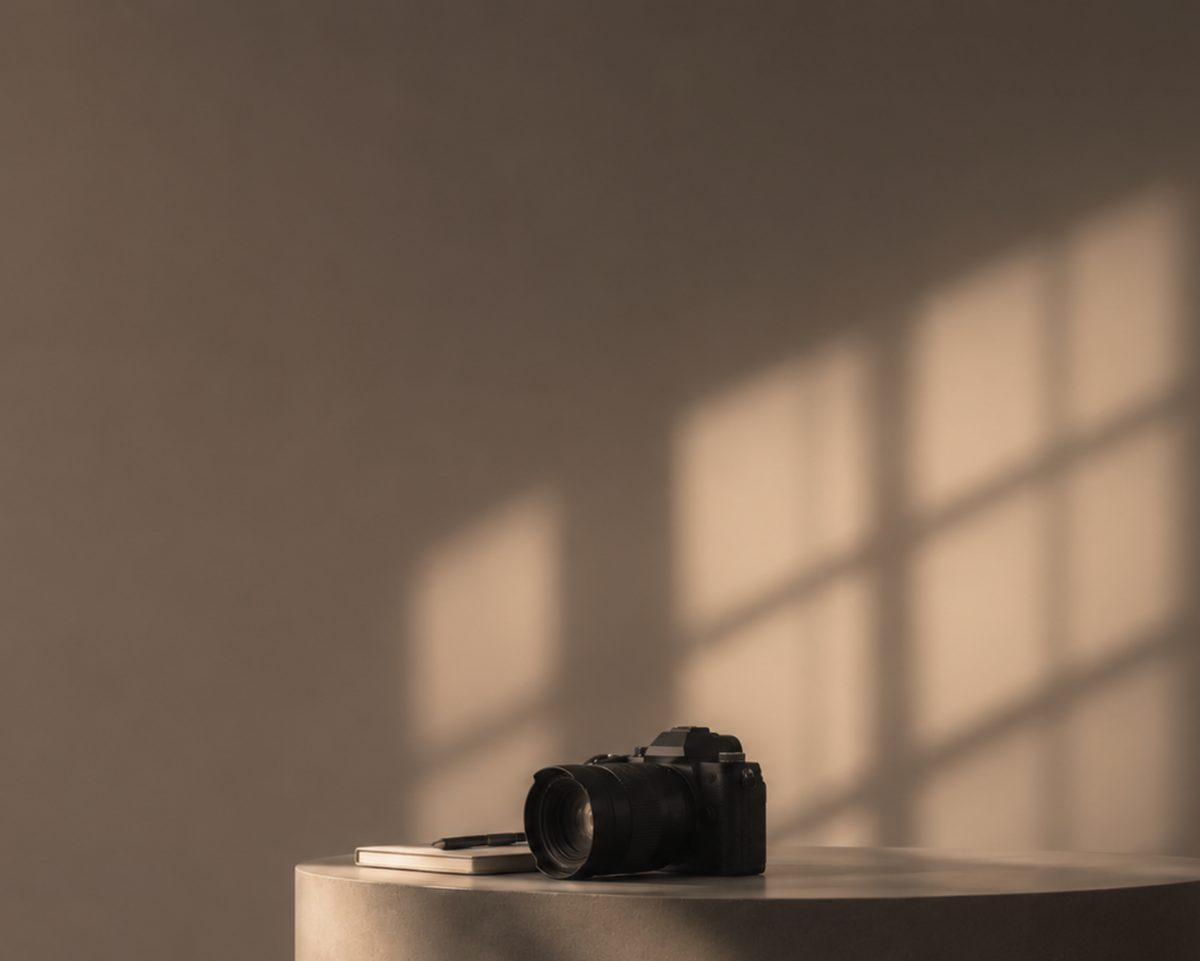
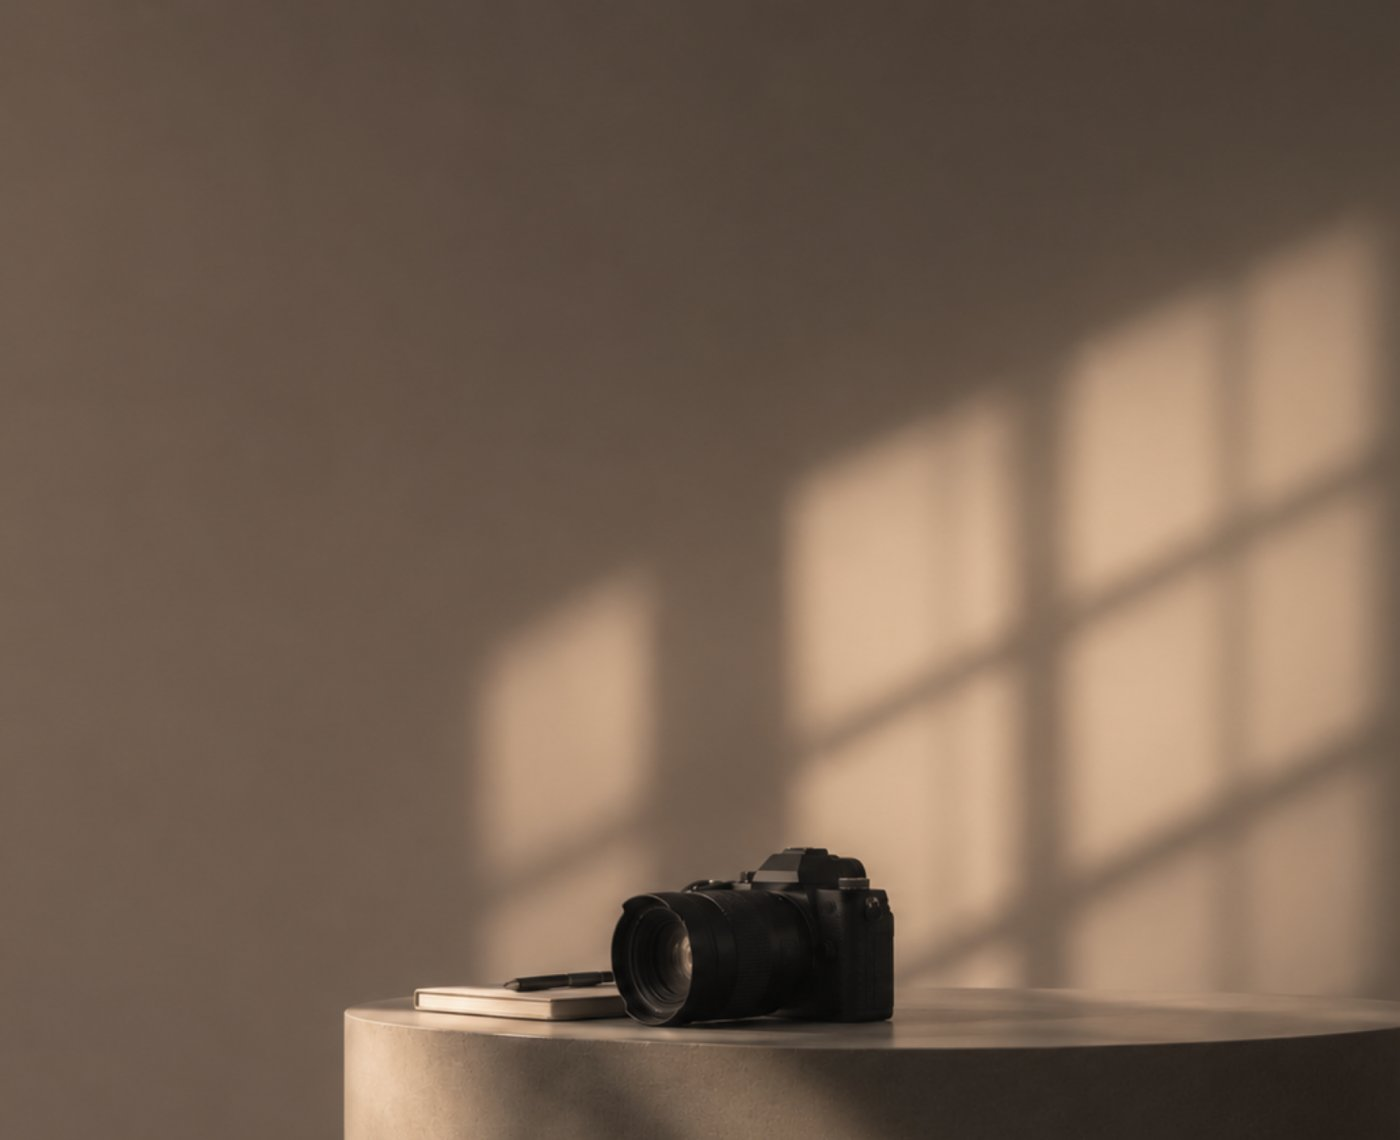
Mobil (Figma UP09): avstånd mellan innehåll och knappar, ny startsidebild
Claude-Session: https://claude.ai/code/session_01KovHTKFrcuu74FJVpFBUCD

Changed region(s): [[0.2467, 0.718, 1.0, 0.9365], [0.8017, 0.718, 0.8633, 0.7492], [0.7708, 0.7492, 0.8017, 0.7804]]

diff --git a/src/components/ljusrum/site.css b/src/components/ljusrum/site.css
@@ -332,14 +332,14 @@
   .site-page { padding-top: calc(env(safe-area-inset-top, 0px) + 16px); }
   /* Safari färgar fältet med klocka och kamera efter sidans bakgrund: på startsidan bildens mörka ton. */
   html:has(.site-page.home),
-  html:has(.site-page.home) body { background-color: #51443a; }
+  html:has(.site-page.home) body { background-color: #4f4338; }
   .site-page.home { padding-top: 0; gap: 16px; }
   .home-top {
     gap: 0;
     min-height: 100vh;
     min-height: 100svh;
     /* Bilden går upp under statusfältet/kamerafältet; menyn börjar 16 px nedanför det. */
-    padding-top: calc(env(safe-area-inset-top, 0px) + 16px);
+    padding-top: calc(env(safe-area-inset-top, 0px) + 20px);
     background: var(--ljus-extra) url('/images/startsida-mobil.jpg') center / cover no-repeat;
   }
   .admin-header--overlay { border-bottom-color: var(--ljus-white); }
@@ -405,23 +405,18 @@
   .mobile-hero__lead { font-size: 16px; line-height: 24px; color: #000; }
   .mobile-hero__lead strong { font-weight: 600; }
 
-  /* Lediga tider, Slutför bokning och Bekräftelse: knapparna längst ner på skärmen */
-  .site-page.times,
-  .site-page.book,
-  .site-page.done { min-height: 100vh; min-height: 100svh; gap: 24px; }
+  /* Lediga tider, Slutför bokning och Bekräftelse: knapparna följer innehållet (Figma) */
+  .site-page.done { gap: 24px; }
   .site-page.times,
   .site-page.book { gap: 0; }
   .mobile-hero { margin-bottom: 24px; }
-  .site-page.times .times-card,
-  .site-page.book .book-card,
-  .site-page.done .done-card { flex: 1 0 auto; }
   .mobile-sr-only {
     position: absolute; width: 1px; height: 1px; overflow: hidden;
     clip: rect(0 0 0 0); white-space: nowrap;
   }
 
-  .times-card { gap: 80px; margin-top: 0; padding-top: 0; padding-bottom: 0; }
-  .times-card .site-buttons { margin-top: auto; }
+  .times-card { gap: 24px; margin-top: 0; padding-top: 0; padding-bottom: 0; }
+  .times-card .site-buttons { gap: 8px; }
   /* Mobil: Tidsval som rader med text på en rad. */
   .time-options { flex-direction: column; gap: 8px; }
   .time-picker__legend { margin: 0; }
@@ -445,16 +440,15 @@
   /* Slutför bokning */
   .book-card { flex-direction: column; align-items: stretch; gap: 16px; margin-top: 0; padding: 0 24px; }
   .book-summary { display: none; }
-  .book-form { flex: 1 0 auto; gap: 16px; }
+  .book-form { gap: 16px; }
   .book-buttons { flex-direction: column; }
   .book-fields { gap: 16px; }
   .field input { background: var(--ljus-card); }
-  .book-buttons { margin-top: auto; padding-top: 80px; }
+  .book-buttons { padding-top: 24px; }   /* 16 px gap + 24 = 40 px under fälten, som i Figma */
 
   /* Bekräftelse */
   .done-card { padding: 0 24px; gap: 16px; }
   .done-box { margin-bottom: 8px; padding: 24px 32px; }
-  .done-card__button { width: calc(100% - 48px); align-self: center; margin: auto 24px 10px; padding-left: 8px; padding-right: 8px; }
+  .done-card__button { width: 100%; margin: 18px 0 10px; padding-left: 8px; padding-right: 8px; }
   .done-card { padding-top: 0; }
-  .done-card .detail-block { margin-bottom: 40px; }
 }

diff --git a/src/routes/index.jsx b/src/routes/index.jsx
@@ -11,7 +11,7 @@ export const Route = createFileRoute('/')({
 
 // Färgen överst i startsidans mobilbild. Safari färgar statusfältet (klocka/kamera) efter den,
 // så att bilden ser ut att fortsätta upp bakom kameran.
-const TOP_COLOR = '#51443a'
+const TOP_COLOR = '#4f4338'
 
 function Home() {
   useEffect(() => {
